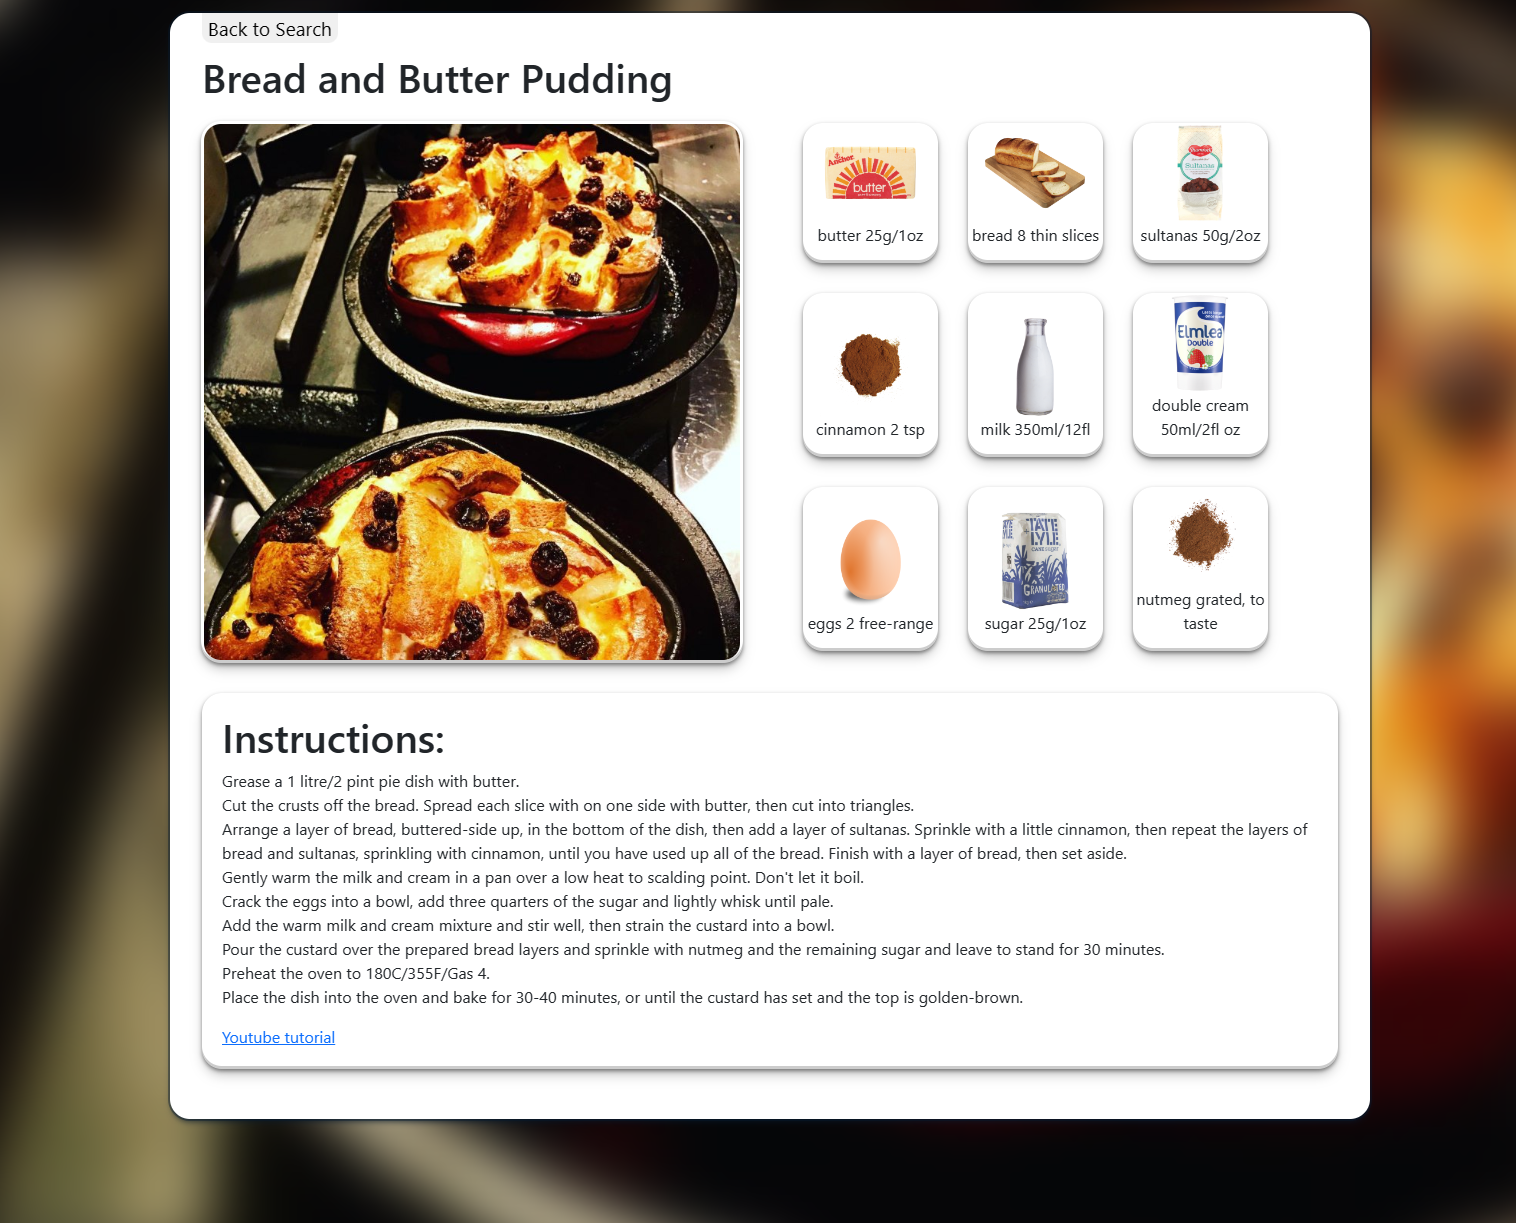
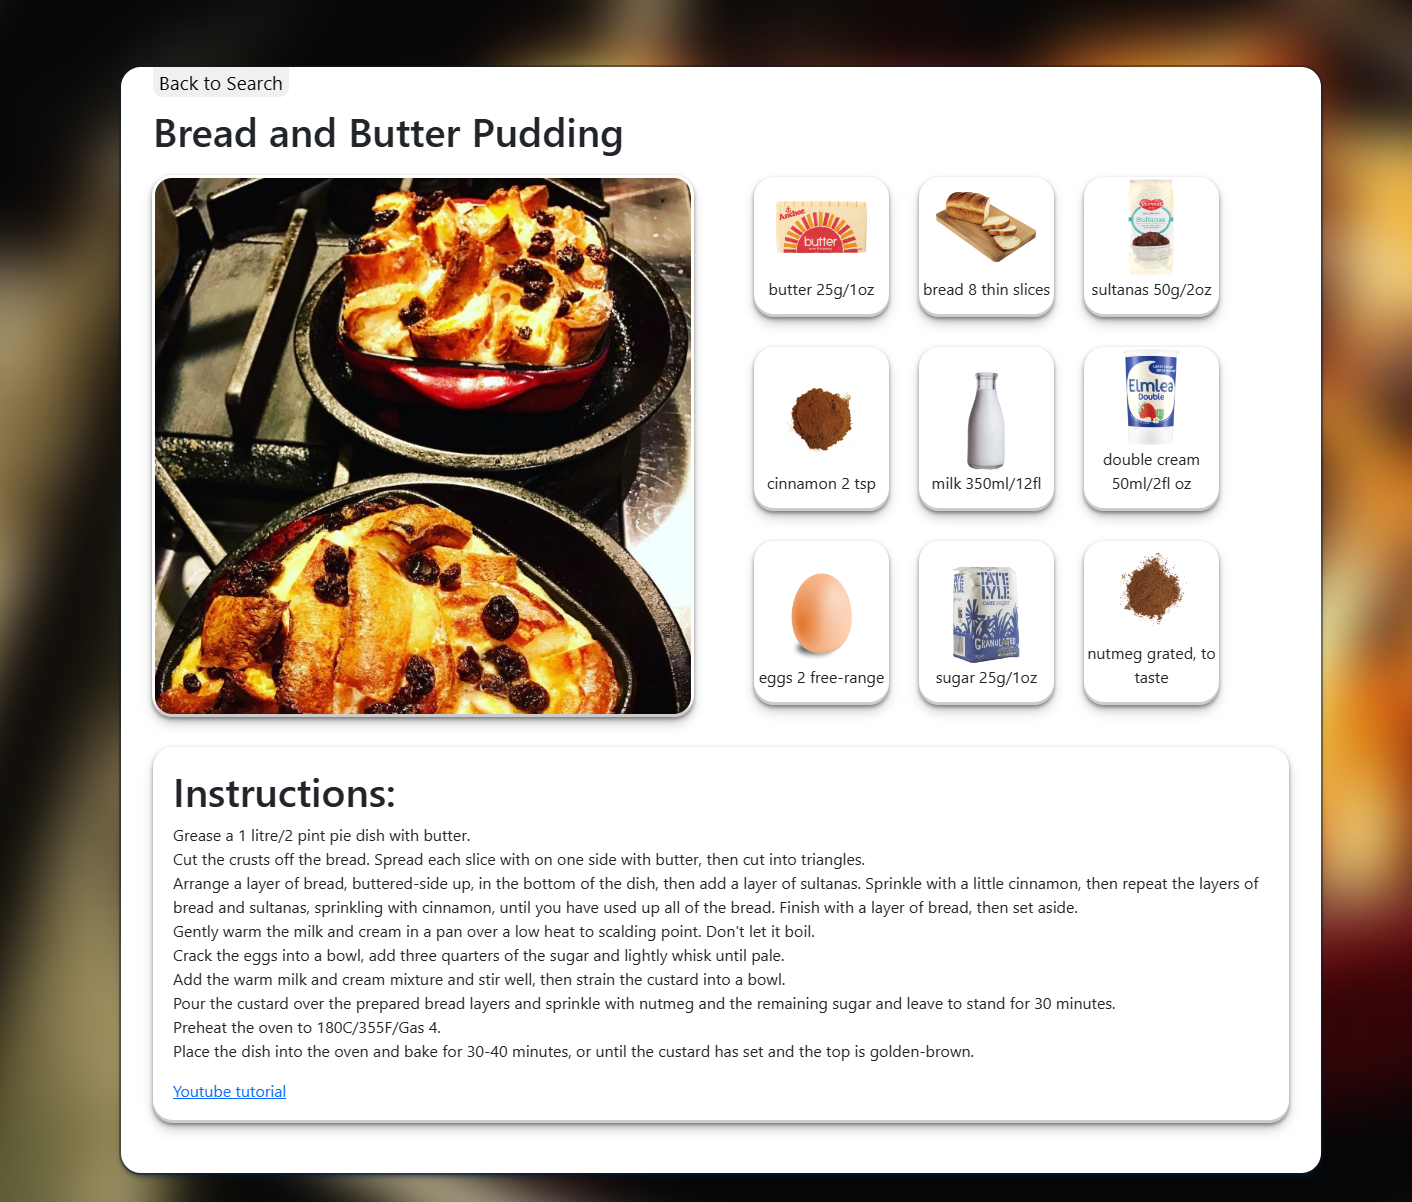
Update CSS styles***
***Add margin-top to details container***

***Remove unused padding-top in body

diff --git a/pages/details/details.css b/pages/details/details.css
@@ -4,6 +4,7 @@
     padding: 30px;
     padding-top: 0px;
     border-radius: 20px;
+    margin-top: 50px;
     /* boxshadown taken rom https://getcssscan.com/css-box-shadow-examples*/
     box-shadow: rgba(6, 24, 44, 0.4) 0px 0px 0px 2px,
         rgba(6, 24, 44, 0.65) 0px 4px 6px -1px,
@@ -191,6 +192,5 @@ html {
 
 body {
     height: 100%;
-    padding-top: 50px;
     padding: 20px;
 }

diff --git a/css/styles.css b/css/styles.css
@@ -130,6 +130,5 @@ html {
 
 body {
     background-image: url('../../images/mainBackground.jpg');
-    padding-top: 50px;
     padding: 20px;
 }
